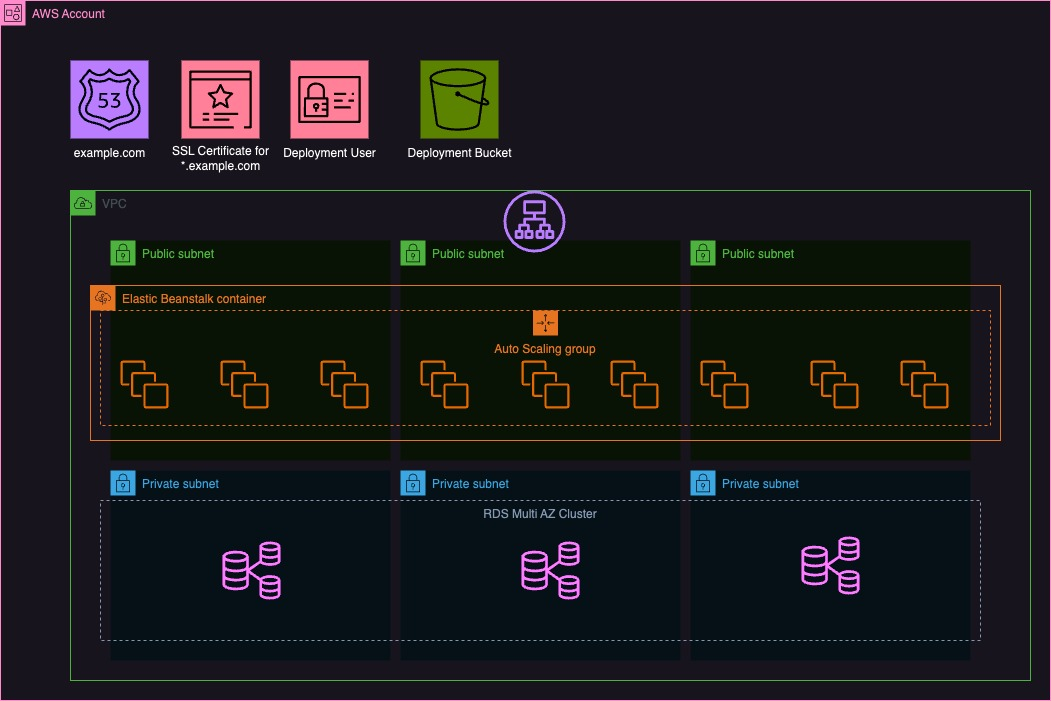
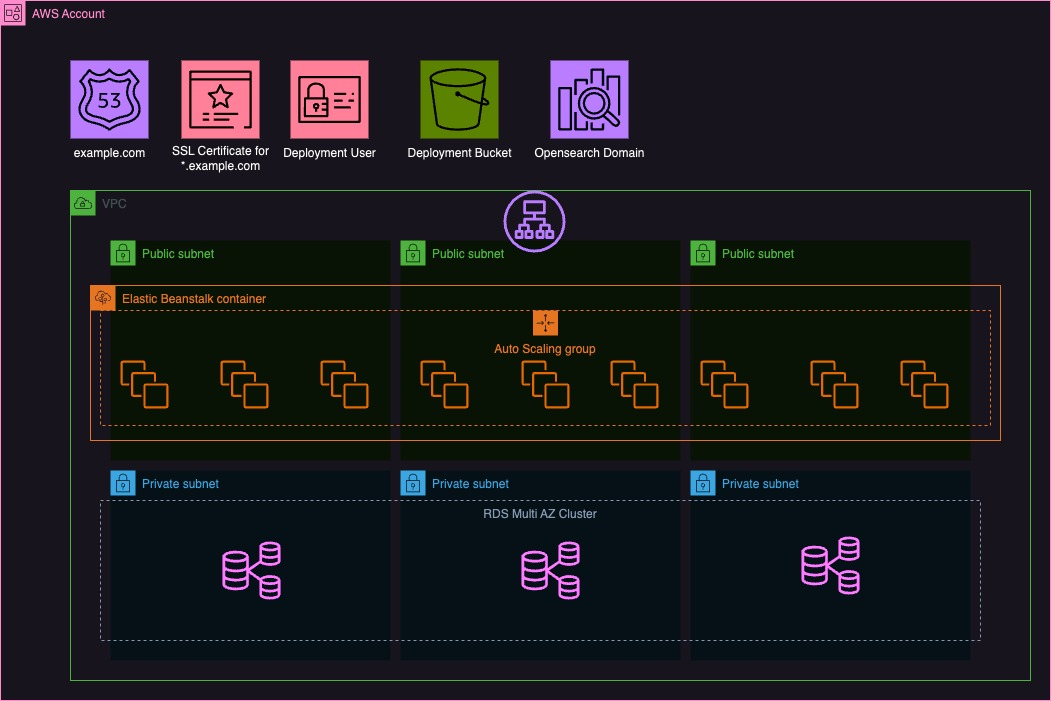
updated docs

Changed region(s): [[0.5176, 0.0599, 0.6089, 0.2397]]

diff --git a/README.md b/README.md
@@ -35,40 +35,43 @@ Run the following commands to provision the resources in your AWS account.
 
 ## Variables and Outputs
 ### Variables
-| Variable | Mandatory | Description | Default Value |
-|----------|-----------|-------------|---------------|
-| `applicationName` | yes | The name of your application. For best results use [Kebab Case](https://developer.mozilla.org/en-US/docs/Glossary/Kebab_case). | |
-| `applicationEnvironment` | yes | The tier of your application. For example: `production`, `integration` or `test` | | 
-| `dns_name` | yes | The fully qualified domain name where your application should be available. | | 
-| `ssl_cert_arn` | yes | The ARN of the wildcard certificate created in ACM. | | 
-| `aws_region` | no | The AWS region in which the resources will be provisioned. | `eu-central-1` |
-| `aws_profile` | no | If you have configured multiple profiles in your AWS CLI you can provide the profile name. Otherwise use `default` | `default` |
-| `ssh_public_key_path` | no | Specifiy an SSH public key to access your instances on AWS. | `~/.ssh/id_rsa.pub` | 
-| `jira_key` | no | You can specifiy a Jira key which will be added as Tag to each resource.  | `NOPE` |
-| `availability_zones` | no | A list of availability zones which will be used to provision resources. These have to correspond with your selected `aws_region`. | `["eu-central-1a", "eu-central-1b", "eu-central-1c"]` |
-| `vpc_cidr_block` | no |  CIDR block of your VPC. | `10.0.0.0/16` |
-| `public_subnet_cidrs` | no | List of CIDR blocks for  public subnets. | `["10.0.0.0/24", "10.0.1.0/24", "10.0.2.0/24"]` |
-| `private_subnet_cidrs` | no | List of CIDR blocks for private subnets. | `["10.0.3.0/24", "10.0.4.0/24", "10.0.5.0/24"]` | 
-| `eb_solution_stack_name` | no | The soulution stack which will be used in Elastic Beanstalk. | `64bit Amazon Linux 2 v4.3.12 running Tomcat 8.5 Corretto 8` |
-| `eb_instance_type` | no | The EC2 instance type which will be used in Elastic Beanstalk. | `t4g.micro` |
+| Variable                 | Mandatory | Description                                                                                                                       | Default Value                                                |
+| ------------------------ | --------- | --------------------------------------------------------------------------------------------------------------------------------- | ------------------------------------------------------------ |
+| `applicationName`        | yes       | The name of your application. For best results use [Kebab Case](https://developer.mozilla.org/en-US/docs/Glossary/Kebab_case).    |                                                              |
+| `applicationEnvironment` | yes       | The tier of your application. For example: `production`, `integration` or `test`                                                  |                                                              |
+| `dns_name`               | yes       | The fully qualified domain name where your application should be available.                                                       |                                                              |
+| `ssl_cert_arn`           | yes       | The ARN of the wildcard certificate created in ACM.                                                                               |                                                              |
+| `aws_region`             | no        | The AWS region in which the resources will be provisioned.                                                                        | `eu-central-1`                                               |
+| `aws_profile`            | no        | If you have configured multiple profiles in your AWS CLI you can provide the profile name. Otherwise use `default`                | `default`                                                    |
+| `ssh_public_key_path`    | no        | Specifiy an SSH public key to access your instances on AWS.                                                                       | `~/.ssh/id_rsa.pub`                                          |
+| `jira_key`               | no        | You can specifiy a Jira key which will be added as Tag to each resource.                                                          | `NOPE`                                                       |
+| `availability_zones`     | no        | A list of availability zones which will be used to provision resources. These have to correspond with your selected `aws_region`. | `["eu-central-1a", "eu-central-1b", "eu-central-1c"]`        |
+| `vpc_cidr_block`         | no        | CIDR block of your VPC.                                                                                                           | `10.0.0.0/16`                                                |
+| `public_subnet_cidrs`    | no        | List of CIDR blocks for  public subnets.                                                                                          | `["10.0.0.0/24", "10.0.1.0/24", "10.0.2.0/24"]`              |
+| `private_subnet_cidrs`   | no        | List of CIDR blocks for private subnets.                                                                                          | `["10.0.3.0/24", "10.0.4.0/24", "10.0.5.0/24"]`              |
+| `eb_solution_stack_name` | no        | The soulution stack which will be used in Elastic Beanstalk.                                                                      | `64bit Amazon Linux 2 v4.3.12 running Tomcat 8.5 Corretto 8` |
+| `eb_instance_type`       | no        | The EC2 instance type which will be used in Elastic Beanstalk.                                                                    | `t4g.micro`                                                  |
 
 ## Outputs
-| Property | Description |
-|----------|-------------|
-| `Jumphost_IP` | The public IP of your bastion host. |
-| `Jumphost_Hostname` | The public hostname of your bastion host. |
-| `RDS_HOSTNAME` | Endpoint of your RDS cluster. Only available within the VPC. | 
-| `RDS_HOSTNAME_READONLY` | Readonly endpoint of your RDS cluster. Only available within your VPC. | 
-| `RDS_USERNAME` | Master username for your RDS cluster. | 
-| `RDS_PASSWORD` | Master password for your RDS cluster. | 
-| `RDS_DB_NAME` | Database name. | 
-| `s3_deployment_bucket_name` | The bucket which was created for Elastic Beanstalk deployment packages. |
-| `eb_cname` | Automaticly generated CNAME of the Elastic Beanstalk environment. |
-| `eb_environmentId` | The ID of the Elastic Beanstalk environment. | 
-| `eb_environmentName` | The name of the Elastic Beanstalk environment. |
-| `AWS_KEY_ID` | Generated AWS_KEY_ID for deployment user. |
-| `AWS_SECRET_ACCESS_KEY` | Generated secret access key for deployment user. |
-
+| Property                        | Description                                                             |
+| ------------------------------- | ----------------------------------------------------------------------- |
+| `Jumphost_IP`                   | The public IP of your bastion host.                                     |
+| `Jumphost_Hostname`             | The public hostname of your bastion host.                               |
+| `RDS_HOSTNAME`                  | Endpoint of your RDS cluster. Only available within the VPC.            |
+| `RDS_HOSTNAME_READONLY`         | Readonly endpoint of your RDS cluster. Only available within your VPC.  |
+| `RDS_USERNAME`                  | Master username for your RDS cluster.                                   |
+| `RDS_PASSWORD`                  | Master password for your RDS cluster.                                   |
+| `RDS_DB_NAME`                   | Database name.                                                          |
+| `s3_deployment_bucket_name`     | The bucket which was created for Elastic Beanstalk deployment packages. |
+| `eb_cname`                      | Automaticly generated CNAME of the Elastic Beanstalk environment.       |
+| `eb_environmentId`              | The ID of the Elastic Beanstalk environment.                            |
+| `eb_environmentName`            | The name of the Elastic Beanstalk environment.                          |
+| `AWS_KEY_ID`                    | Generated AWS_KEY_ID for deployment user.                               |
+| `AWS_SECRET_ACCESS_KEY`         | Generated secret access key for deployment user.                        |
+| `opensearch_endpoint`           | Endpoint of Opensearch Domain. Only available within the VPC.           |
+| `opensearch_dashboard_endpoint` | Access to Opensearch Dashboard. Only available within VPC.              |
+| `opensearch_master_user`        | Master user of Opensearch Domain                                        |
+| `opensearch_master_password`    | Autogenerated master password of Opensearch Domain                      |
 # Todos
 ## DNS in Route 53
 At this time the CNAME of your Elastic Beanstalk environment will not be added in Route 53 hosted zone. You have to do this manually.
